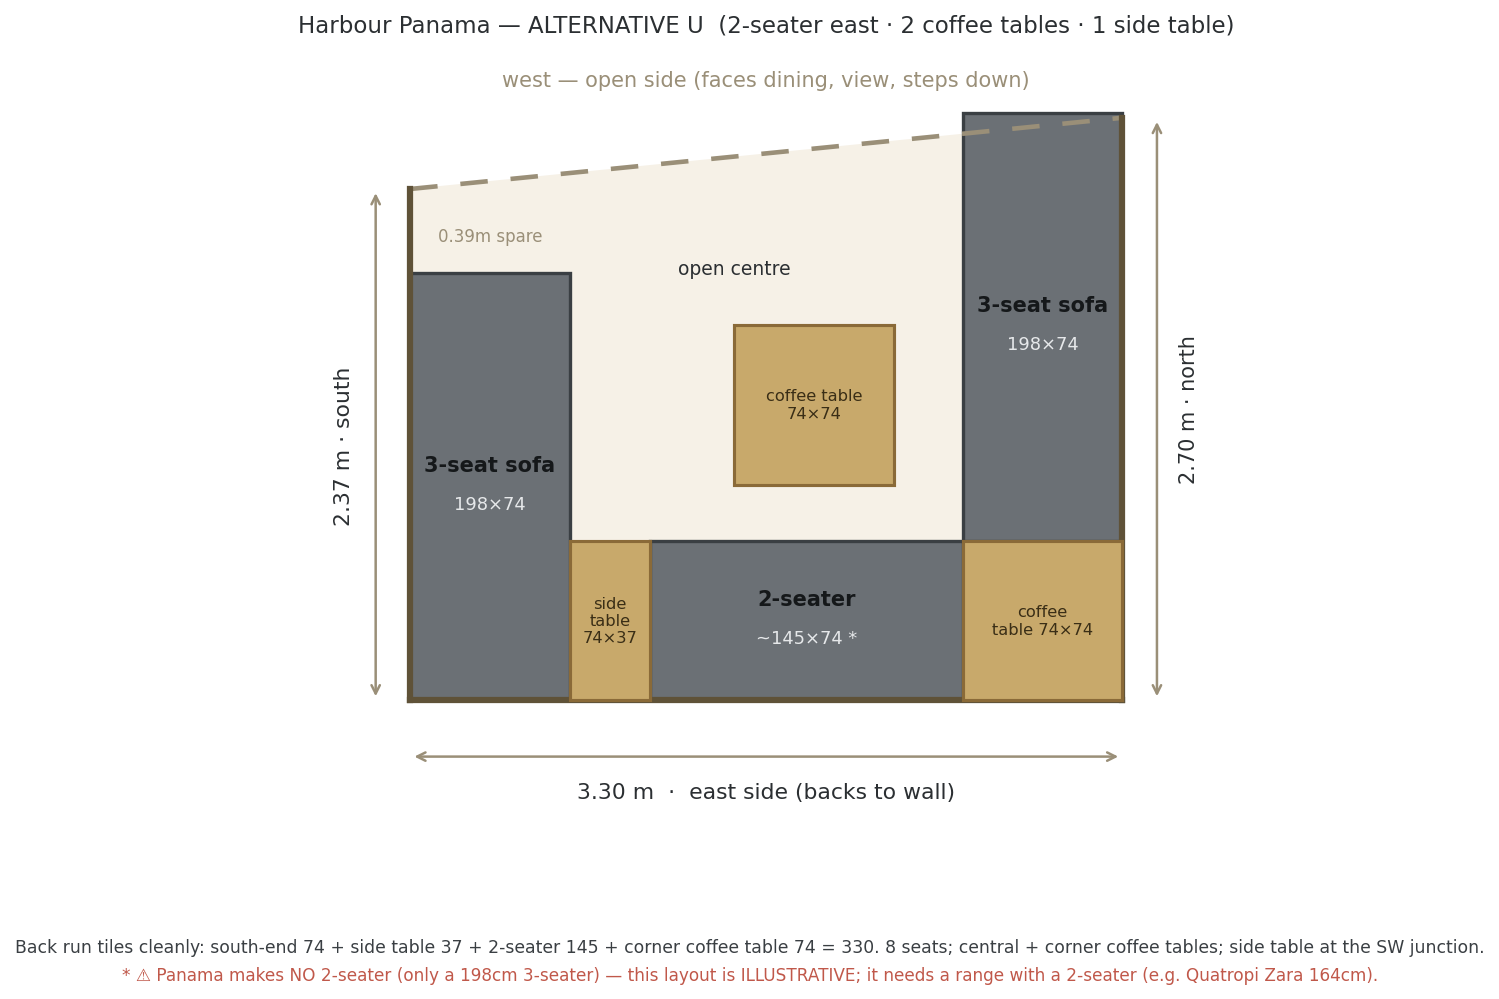
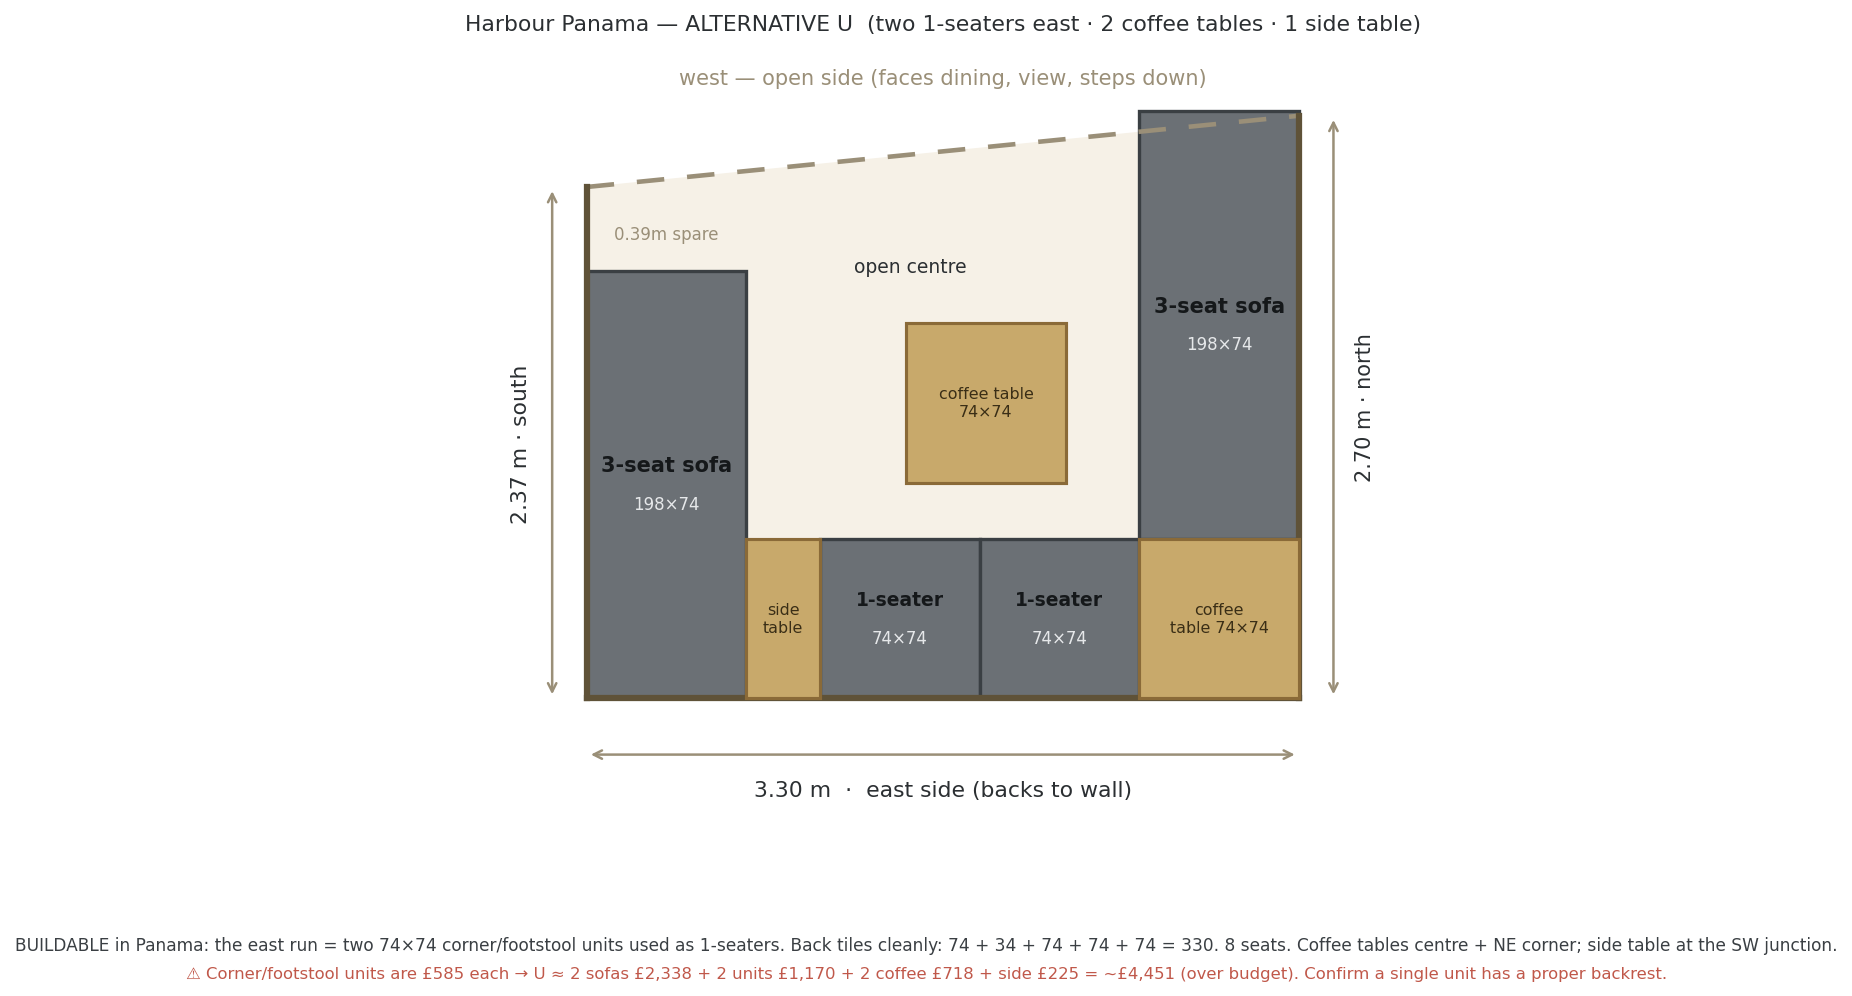
Furniture: Panama alt now buildable — two 74cm corner/footstool units as 1-seaters on the east (8 seats, ~£4,451)

diff --git a/roof-terrace/furniture-options.md b/roof-terrace/furniture-options.md
@@ -793,11 +793,11 @@ The cleanest **bare dark-aluminium box** of the Quatropi ranges (no rope), smoke
 
 3 armless 198×74cm sofas turn the SW corner; a **teak side table fills the bottom-right (NE) corner gap**, and the **north leg is shuffled left** so the only leftover is a **tidy ~0.21m strip against the north flowerbed** (fine — small gap behind). A second side table sits at the south leg's open end. **9 seats. 3 sofas £3,507 + coffee table £359 = £3,866** (in budget); **+ 2 side tables £450 → ~£4,316** (marginally over). Deep/chunky, lounge-first, cushions not all-weather, converts to sun-loungers. Quatropi Zara gives a cleaner wrap-around for ~£2,300.
 
-**Alternative Panama layout (2-seater east + 2 coffee tables + 1 side table):**
+**Alternative Panama layout (two 1-seaters east + 2 coffee tables + 1 side table) — buildable:**
 
 <img src="drawings/panama-alt-u-fa3-28-6-26.png" width="100%">
 
-A tidier arrangement: a **2-seater on the east/back run**, a **side table at the SW junction** (between the east sofa and the south leg), and the **bottom-right corner as a second coffee table** — so 2 coffee tables + 1 side table. The back tiles cleanly (74 + 37 + 145 + 74 = 330), 8 seats. ⚠ **But Panama makes no 2-seater** (only the 198cm 3-seater), so this exact layout **isn't buildable in Panama** — it's shown to compare the *concept*, and it really points to a range that offers a 2-seater (e.g. **Quatropi Zara**'s 164cm 2-seater). Worth a look if this arrangement appeals more than the 3-sofa version above.
+A tidier arrangement that **is buildable in Panama**: since Panama has no 2-seater, the east/back run uses **two 74×74 corner/footstool units as 1-seaters**; a **side table sits at the SW junction** (between the east seats and the south leg), and the **bottom-right corner is a second coffee table** — so 2 coffee tables + 1 side table, 8 seats. The back tiles cleanly (74 + 34 + 74 + 74 + 74 = 330). ⚠ **Cost catch:** the corner/footstool units are **£585 each**, so this version ≈ 2 sofas £2,338 + 2 units £1,170 + 2 coffee tables £718 + side table £225 = **~£4,451 (over budget)** — the £585 single-seat units are poor value per seat. Also **confirm a single corner/footstool unit has a proper backrest** when used as a forward-facing seat (it's designed as a corner/footstool). The 3-sofa version above (£3,866) is cheaper; this one buys the neater table arrangement at a premium.
 
 **If Panama stays out of stock** — near-identical in-stock alternatives: **daals "Albany"** (~£730, dark grey, reclines to a lounger) and **Bramblecrest** (premium, marine-grade). A bespoke-fitted U is still cleaner via Stoaked/Quatropi, but Panama-by-module is a viable route.
 